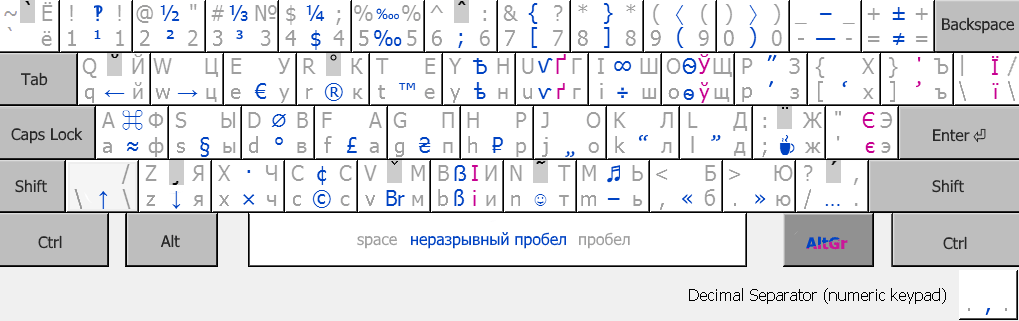
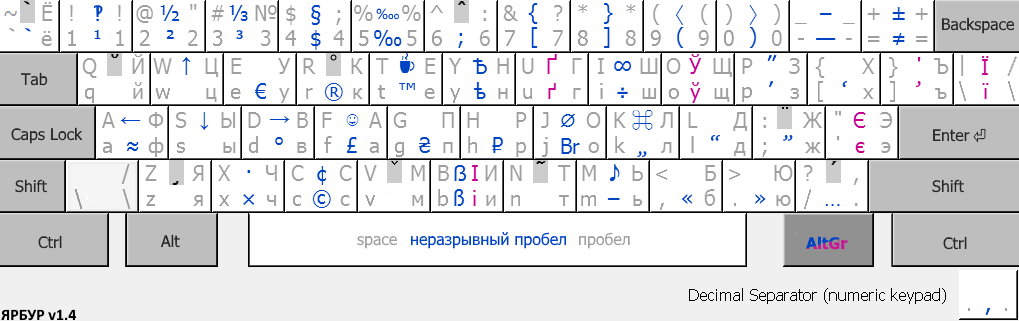
ЯРБУР update

diff --git a/_includes/head.html b/_includes/head.html
@@ -43,9 +43,6 @@
     <link rel="apple-touch-icon-precomposed" sizes="144x144" href="{{ site.baseurl }}/favicon144.png">
 
 
-    <!-- script lightbox  -->
-    <script src="/lightbox2/js/lightbox-plus-jquery.min.js"></script>
-
     <!-- Begin Jekyll Feed -->
     {% feed_meta %}
 

diff --git a/_layouts/default.html b/_layouts/default.html
@@ -12,6 +12,8 @@
 
     </div>
 
+    <!-- script lightbox, "Include the Javascript at the bottom of your page before the closing </body> tag"  -->
+    <script src="/lightbox2/js/lightbox-plus-jquery.min.js"></script>
 </body>
 
 </html>

diff --git a/_posts/2016-09-17-yarbur.md b/_posts/2016-09-17-yarbur.md
@@ -20,6 +20,8 @@ images:
 
 permalink: yarbur
 
+version: 1.4
+
 ---
 
 {%include lightbox.html %}
@@ -28,7 +30,7 @@ permalink: yarbur
 
 <!--more-->
 
-### Скачать ЯРБУР v1.2 для Windows XP–10 — **[.zip](https://github.com/yalov/yarbur-keyboard-layouts/releases/download/1.2/Yarbur_v1.2.zip)** или **[.7z](https://github.com/yalov/yarbur-keyboard-layouts/releases/download/1.2/Yarbur_v1.2.7z)**
+### Скачать ЯРБУР v{{page.version}} для Windows XP–10 — **[.zip](https://github.com/yalov/yarbur-keyboard-layouts/releases/download/{{page.version}}/Yarbur_v{{page.version}}.zip)** или **[.7z](https://github.com/yalov/yarbur-keyboard-layouts/releases/download/{{page.version}}/Yarbur_v{{page.version}}.7z)**
 
 Символы, доступные через правый Alt (`AltGr`) называют третьим слоем, а через `AltGr` + `Shift` — четвёртым.
 
@@ -43,7 +45,7 @@ permalink: yarbur
 **₴**, **Br**.
 
 ### Как установить?
-Для установки использовать *ЯРБУР-Ru.exe* и *ЯРБУР-En.exe*.<br>
+Для установки использовать *Install-Yarbur-En.exe* и *Install-Yarbur-Ru.exe*.<br>
 Затем в «настройках способов ввода» (*Панель управления/Язык* для Win10) можно удалять стандартные русскую и английскую раскладки. Если какие-то проблемы — перезагрузиться.
 
 Для обновления на новую версию сначала нужно удалить старую.
@@ -68,7 +70,7 @@ permalink: yarbur
 
 На четвёртом слое можно увидеть различные диакритические знаки, которые выделены серым фоном. Их можно соединять с любой буквой русского и английского алфавита.
 
-Например, чтобы получить ударение в *во́ля*, нужно нажать:  
+Например, чтобы получить ударение в *во́ля*, нужно нажать:
 `в` `AltGr`+`Shift`+`.`+`.` `о` `л` `я`, т. е. удерживаются  `AltGr` и `Shift`, после чего **дважды** нажимается нужная клавиша с диак. знаком, (в данном случае «точка» рядом с правым `Shift`). Затем следует подударная буква.
 
 ### Про десятичный разделитель
